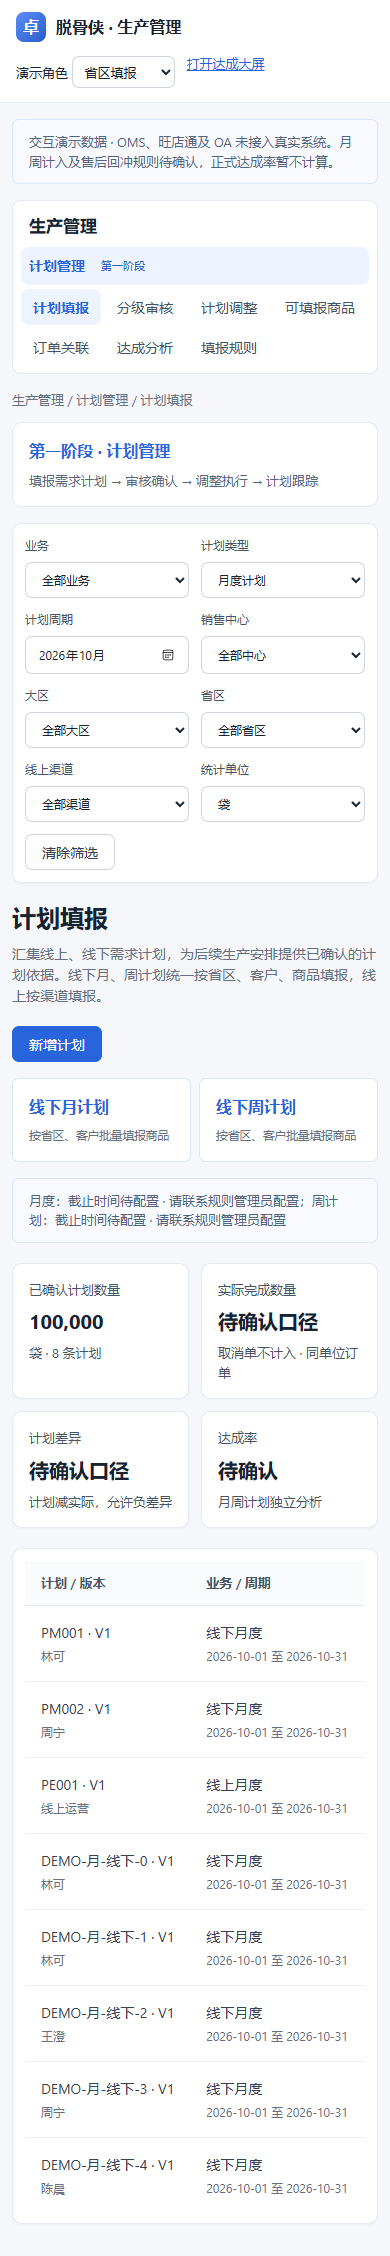
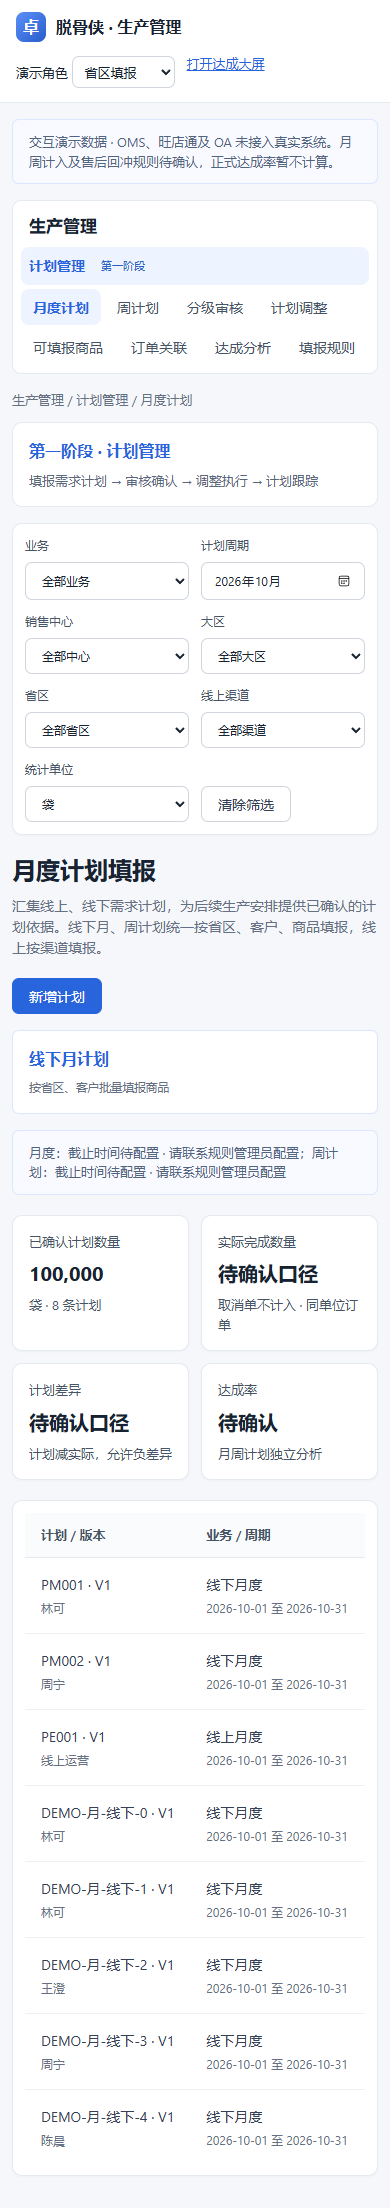
Auto sync 2026-10-12 11:15:06

diff --git a/09-设计与原型/销售计划管理/销售计划管理.js b/09-设计与原型/销售计划管理/销售计划管理.js
@@ -11,21 +11,22 @@
   function persist(){try{M.save(d);return true;}catch(e){message('保存失败：浏览器存储不可用，请检查权限；请保留当前页面。');return false;}}
   function message(s){const el=document.getElementById('message');el.textContent=s;el.style.display='block';setTimeout(()=>el.style.display='none',7000);}
   function log(p,action,extra={}){p.history.push({at:new Date().toISOString(),by:role,action,...extra});}
-  const uxApi={data:()=>d,role:()=>role,view:()=>view,rows,render,persist,message,modal,log,planTable,drill:(list)=>{modal('计划与订单明细',planTable(list));}};
+  const uxApi={data:()=>d,role:()=>role,view:()=>view,kind:()=>filters.kind,rows,render,persist,message,modal,log,planTable,drill:(list)=>{modal('计划与订单明细',planTable(list));}};
   try{const saved=JSON.parse(localStorage.getItem('tgx_plan_filters'));if(saved)filters={...filters,...saved};}catch{}
   function render(){
-    document.getElementById('root').innerHTML=`<header><div><strong>脱骨侠 · ${screen?'生产管理 · 计划达成分析':'生产管理'}</strong><div class="muted">第一阶段 · 计划管理 · 需求计划填报</div></div><div class="row">${!screen?`<label>演示角色 <select id="role">${options(['省区填报','线上运营','大区审核','中心审核','严总','丹总','商品管理员','规则管理员'],role)}</select></label>`:''}<a href="${screen?'14-销售仓库协同数字驾驶舱.html':'15-销售仓库协同可视化大屏.html'}">${screen?'返回计划管理':'打开达成大屏'}</a></div></header><main><div class="notice">交互演示数据 · OMS、旺店通及 OA 未接入真实系统。${d.rules.overlap==='pending'||d.rules.returns==='pending'?'月周计入及售后回冲规则待确认，正式达成率暂不计算。':''}</div>${!screen?`<nav aria-label="生产管理导航"><div class="module-parent">生产管理</div><div class="module-current">计划管理 <span class="tag">第一阶段</span></div><div class="module-group">计划业务</div>${[['plans','计划填报'],['review','分级审核'],['adjustments','计划调整'],['products','可填报商品'],['orders','订单关联'],['analysis','达成分析'],['rules','填报规则']].map(([k,t])=>`${k==='products'?'<div class="module-group">计划支撑</div>':''}<button data-view="${k}" aria-current="${view===k}">${t}</button>`).join('')}</nav>`:''}<div class="breadcrumb" aria-label="当前位置">生产管理 / 计划管理 / ${({plans:'计划填报',review:'分级审核',adjustments:'计划调整',products:'可填报商品',orders:'订单关联',analysis:'达成分析',rules:'填报规则'})[view]}</div><div class="phase-banner"><strong>第一阶段 · 计划管理</strong><span>填报需求计划 → 审核确认 → 调整执行 → 计划跟踪</span></div><div id="content">${['plans','review','analysis'].includes(view)?filterBar():''}${content()}</div></main><dialog id="dialog" aria-labelledby="dialogTitle"></dialog><div id="message" role="status" aria-live="polite"></div>`;
+    document.getElementById('root').innerHTML=`<header><div><strong>脱骨侠 · ${screen?'生产管理 · 计划达成分析':'生产管理'}</strong><div class="muted">第一阶段 · 计划管理 · 需求计划填报</div></div><div class="row">${!screen?`<label>演示角色 <select id="role">${options(['省区填报','线上运营','大区审核','中心审核','严总','丹总','商品管理员','规则管理员'],role)}</select></label>`:''}<a href="${screen?'14-销售仓库协同数字驾驶舱.html':'15-销售仓库协同可视化大屏.html'}">${screen?'返回计划管理':'打开达成大屏'}</a></div></header><main><div class="notice">交互演示数据 · OMS、旺店通及 OA 未接入真实系统。${d.rules.overlap==='pending'||d.rules.returns==='pending'?'月周计入及售后回冲规则待确认，正式达成率暂不计算。':''}</div>${!screen?`<nav aria-label="生产管理导航"><div class="module-parent">生产管理</div><div class="module-current">计划管理 <span class="tag">第一阶段</span></div><div class="module-group">计划业务</div><button data-plan-kind="month" aria-current="${view==='plans'&&filters.kind==='month'}">月度计划</button><button data-plan-kind="week" aria-current="${view==='plans'&&filters.kind==='week'}">周计划</button>${[['review','分级审核'],['adjustments','计划调整'],['products','可填报商品'],['orders','订单关联'],['analysis','达成分析'],['rules','填报规则']].map(([k,t])=>`${k==='products'?'<div class="module-group">计划支撑</div>':''}<button data-view="${k}" aria-current="${view===k}">${t}</button>`).join('')}</nav>`:''}<div class="breadcrumb" aria-label="当前位置">生产管理 / 计划管理 / ${({plans:filters.kind==='month'?'月度计划':'周计划',review:'分级审核',adjustments:'计划调整',products:'可填报商品',orders:'订单关联',analysis:'达成分析',rules:'填报规则'})[view]}</div><div class="phase-banner"><strong>第一阶段 · 计划管理</strong><span>填报需求计划 → 审核确认 → 调整执行 → 计划跟踪</span></div><div id="content">${['plans','review','analysis'].includes(view)?filterBar():''}${content()}</div></main><dialog id="dialog" aria-labelledby="dialogTitle"></dialog><div id="message" role="status" aria-live="polite"></div>`;
+    document.querySelectorAll('[data-plan-kind]').forEach(b=>b.onclick=()=>{const kind=b.dataset.planKind;try{localStorage.setItem('tgx_plan_filters_'+filters.kind,JSON.stringify(filters));const saved=JSON.parse(localStorage.getItem('tgx_plan_filters_'+kind));filters=saved||{business:'all',kind,center:'all',area:'all',province:'all',channel:'all',unit:'袋',cycle:kind==='month'?'2026-10':'2026-10-12'};filters.kind=kind;localStorage.setItem('tgx_plan_filters',JSON.stringify(filters));}catch{filters.kind=kind;filters.cycle=kind==='month'?'2026-10':'2026-10-12';}view='plans';render();});
     document.querySelectorAll('[data-view]').forEach(b=>b.onclick=()=>{view=b.dataset.view;render();});
     document.getElementById('role')?.addEventListener('change',e=>{role=e.target.value;render();});
     document.querySelectorAll('[data-filter]').forEach(el=>el.onchange=()=>{filters[el.dataset.filter]=el.value;if(el.dataset.filter==='business'){filters.center='all';filters.area='all';filters.province='all';filters.channel='all';}if(el.dataset.filter==='kind')filters.cycle=el.value==='month'?'2026-10':'2026-10-12';if(el.dataset.filter==='center'){filters.area='all';filters.province='all';}if(el.dataset.filter==='area')filters.province='all';try{localStorage.setItem('tgx_plan_filters',JSON.stringify(filters));}catch{}render();});
     document.querySelectorAll('[data-action]').forEach(b=>b.onclick=()=>action(b.dataset.action,b.dataset.id));
     SalesUX.decorate(uxApi);PlanChange.decorate(uxApi);if(view==='review'&&['大区审核','中心审核','严总'].includes(role))PlanHierarchy.render(uxApi);
   }
-  function filterBar(){const areaList=Object.keys(M.areas), provinces=filters.area==='all'?Object.values(M.areas).flat():M.areas[filters.area];return `<div class="card row filters"><label>业务 <select data-filter="business">${options(['offline','online'],filters.business,'全部业务').replace('>offline<','>线下<').replace('>online<','>线上<')}</select></label><label>计划类型 <select data-filter="kind">${options(['month','week'],filters.kind).replace('>month<','>月度计划<').replace('>week<','>周计划<')}</select></label><label>计划周期 <input data-filter="cycle" aria-label="计划周期" type="${filters.kind==='month'?'month':'date'}" value="${esc(filters.cycle)}"></label><label>销售中心 <select data-filter="center">${options(M.centers,filters.center,'全部中心')}</select></label><label>大区 <select data-filter="area">${options(areaList,filters.area,'全部大区')}</select></label><label>省区 <select data-filter="province">${options(provinces,filters.province,'全部省区')}</select></label><label>线上渠道 <select data-filter="channel">${options(M.channels,filters.channel,'全部渠道')}</select></label><label>统计单位 <select data-filter="unit">${options(['箱','包','袋','盒','罐','支'],filters.unit)}</select></label><button data-action="clear">清除筛选</button></div>`;}
+  function filterBar(){const areaList=Object.keys(M.areas), provinces=filters.area==='all'?Object.values(M.areas).flat():M.areas[filters.area];return `<div class="card row filters"><label>业务 <select data-filter="business">${options(['offline','online'],filters.business,'全部业务').replace('>offline<','>线下<').replace('>online<','>线上<')}</select></label>${view==='plans'?'':`<label>计划类型 <select data-filter="kind">${options(['month','week'],filters.kind).replace('>month<','>月度计划<').replace('>week<','>周计划<')}</select></label>`}<label>计划周期 <input data-filter="cycle" aria-label="计划周期" type="${filters.kind==='month'?'month':'date'}" value="${esc(filters.cycle)}"></label><label>销售中心 <select data-filter="center">${options(M.centers,filters.center,'全部中心')}</select></label><label>大区 <select data-filter="area">${options(areaList,filters.area,'全部大区')}</select></label><label>省区 <select data-filter="province">${options(provinces,filters.province,'全部省区')}</select></label><label>线上渠道 <select data-filter="channel">${options(M.channels,filters.channel,'全部渠道')}</select></label><label>统计单位 <select data-filter="unit">${options(['箱','包','袋','盒','罐','支'],filters.unit)}</select></label><button data-action="clear">清除筛选</button></div>`;}
   function metrics(list){const approved=list.filter(p=>p.stage>=M.chain(p).length&&!p.rejected), total=approved.reduce((s,p)=>s+p.qty,0), actual=approved.some(p=>M.actual(d,p)===null)?null:approved.reduce((s,p)=>s+M.actual(d,p),0);return `<div class="metrics"><div class="metric">已确认计划数量<strong>${fmt(total)}</strong>${esc(filters.unit)} · ${approved.length} 条计划</div><div class="metric">实际完成数量<strong>${fmt(actual)}</strong>取消单不计入 · 同单位订单</div><div class="metric">计划差异<strong>${fmt(actual===null?null:total-actual)}</strong>计划减实际，允许负差异</div><div class="metric">达成率<strong>${actual===null?'待确认':total?Math.round(actual/total*100)+'%':'—'}</strong>月周计划独立分析</div></div>`;}
   function planTable(list,review=false){return list.length?`<div class="table-wrap"><table><thead><tr><th>计划 / 版本</th><th>业务 / 周期</th><th>填报维度</th><th>商品</th><th>计划数量</th><th>实际完成</th><th>状态</th><th>操作</th></tr></thead><tbody>${list.map(p=>`<tr><td>${esc(p.id)} · V${p.version}<small>${esc(p.owner)}</small></td><td>${p.business==='online'?'线上':'线下'}${p.kind==='month'?'月度':'周'}<small>${p.start} 至 ${p.end}</small></td><td>${esc(subject(p))}<small>${esc(p.center)} ${esc(p.area)}</small></td><td>${esc(product(p.product))}</td><td>${fmt(p.qty)} ${esc(p.unit)}</td><td>${fmt(M.actual(d,p))}</td><td>${tag(M.status(d,p))}</td><td><button data-action="detail" data-id="${p.id}">详情 / 订单</button> ${p.stage<0||p.rejected?`<button data-action="submit" data-id="${p.id}">提交</button>`:''}${review&&M.chain(p)[p.stage]===role?` <button data-action="review" data-id="${p.id}">审核</button>`:''}${!screen&&p.stage>=M.chain(p).length&&!p.archived?` <button data-action="adjust" data-id="${p.id}">加急调整</button> <button data-action="archive" data-id="${p.id}">归档</button>`:''}</td></tr>`).join('')}</tbody></table></div>`:'<div class="empty">暂无符合条件的计划。请清除筛选或新增计划。</div>';}
   function content(){
-    if(view==='plans'||view==='review')return `<div class="row space"><div><h1>${view==='review'?'分级审核':'计划填报'}</h1><p class="muted">汇集线上、线下需求计划，为后续生产安排提供已确认的计划依据。线下月、周计划统一按省区、客户、商品填报，线上按渠道填报。</p></div>${view==='plans'?'<button class="primary" data-action="new">新增计划</button>':''}</div><div class="notice">月度窗口：${M.windowState(d,'month')} · 周计划窗口：${M.windowState(d,'week')}。月度20日填报、周五前完成，精确时点在填报规则中配置。</div>${metrics(rows())}${view==='review'?reviewSummary(rows()):''}<section class="card">${planTable(rows(),view==='review')}</section>`;
+    if(view==='plans'||view==='review')return `<div class="row space"><div><h1>${view==='review'?'分级审核':filters.kind==='month'?'月度计划填报':'周计划填报'}</h1><p class="muted">汇集线上、线下需求计划，为后续生产安排提供已确认的计划依据。线下月、周计划统一按省区、客户、商品填报，线上按渠道填报。</p></div>${view==='plans'?'<button class="primary" data-action="new">新增计划</button>':''}</div><div class="notice">月度窗口：${M.windowState(d,'month')} · 周计划窗口：${M.windowState(d,'week')}。月度20日填报、周五前完成，精确时点在填报规则中配置。</div>${metrics(rows())}${view==='review'?reviewSummary(rows()):''}<section class="card">${planTable(rows(),view==='review')}</section>`;
     if(view==='analysis')return analysis();
     if(view==='products')return `<section class="card"><div class="row space"><h1>可填报商品维护</h1><button data-action="product-new" ${role!=='商品管理员'?'disabled':''}>新增商品</button></div><p>商品管理员维护启用状态、适用业务、生效与失效日期。停用不影响历史计划。</p><div class="table-wrap"><table><thead><tr><th>商品编码 / 名称</th><th>适用业务</th><th>有效期</th><th>状态</th><th>操作</th></tr></thead><tbody>${d.products.map(p=>`<tr><td>${esc(p.id)}<small>${esc(p.name)}</small></td><td>${esc(p.scope)}</td><td>${p.from} 至 ${p.to||'长期'}</td><td>${p.enabled?'已启用':'已停用'}</td><td><button data-action="product-edit" data-id="${p.id}" ${role!=='商品管理员'?'disabled':''}>编辑</button></td></tr>`).join('')}</tbody></table></div><h3>商品变更记录</h3>${d.productHistory.map(h=>`<p>${esc(h.at)} · ${esc(h.id)} · ${esc(h.action)}</p>`).join('')||'<p class="muted">暂无变更记录</p>'}</section>`;
     if(view==='adjustments')return `<section class="card"><h1>计划调整与审批</h1><p>开始前可调整月、周计划内容并重新审批；执行后的数量变化走加急审批。审批通过生成新版本，驳回保留原计划。</p>${d.adjustments.length?`<div class="table-wrap"><table><thead><tr><th>计划</th><th>调整前 / 后</th><th>原因 / 附件</th><th>审批人</th><th>状态 / 进度</th><th>操作</th></tr></thead><tbody>${d.adjustments.map(a=>`<tr><td>${a.plan} · V${a.base}<small>${a.type==='before-start'?'开始前内容调整':'加急数量调整'}</small></td><td>${a.type==='before-start'?`<details><summary>内容变更对比</summary><table><thead><tr><th>字段</th><th>原计划</th><th>申请调整</th></tr></thead><tbody>${PlanChange.diff(a,d)}</tbody></table></details>`:''}${fmt(a.before)} → ${fmt(a.after)}<small>差异 ${fmt(a.after-a.before)}</small></td><td>${esc(a.reason)}<small>${esc(a.attachment||'无附件')}</small></td><td>${esc(a.approver)}</td><td>${tag(a.status)}<small>发起：${esc(a.at)}</small><small>${a.reviewAt?'审批：'+esc(a.reviewAt):'等待 '+esc(a.approver)+' 确认'}</small><small>${esc(a.opinion||'')}</small></td><td>${a.status==='待OA审批'&&role===a.approver?`<button data-action="adjust-review" data-id="${a.id}">演示审批</button>`:''}</td></tr>`).join('')}</tbody></table></div>`:'<div class="empty">暂无加急调整。请从已确认计划发起。</div>'}</section>`;
@@ -45,7 +46,7 @@
   function productForm(p){if(role!=='商品管理员')return;modal(p?'编辑可填报商品':'新增可填报商品',`<form id="productForm"><div class="grid">${field('商品编码','id',`<input name="id" value="${esc(p?.id||'')}" ${p?'readonly':''} required>`)}${field('商品名称','name',`<input name="name" value="${esc(p?.name||'')}" required>`)}${field('适用业务','scope',`<select name="scope">${options(['全部','线上','线下'],p?.scope)}</select>`)}${field('启用状态','enabled',`<select name="enabled">${options(['已启用','已停用'],p?.enabled===false?'已停用':'已启用')}</select>`)}${field('生效日期','from',`<input name="from" type="date" required value="${p?.from||''}">`)}${field('失效日期','to',`<input name="to" type="date" value="${p?.to||''}">`)}</div><div class="error" id="productError"></div><div class="actions"><button class="primary">保存商品</button></div></form>`);document.getElementById('productForm').onsubmit=e=>{e.preventDefault();const x=Object.fromEntries(new FormData(e.target));if((x.to&&x.to<x.from)||(!p&&d.products.some(v=>v.id===x.id))){document.getElementById('productError').textContent='商品编码重复或有效期错误，请修正。';return;}const before=p?structuredClone(p):null,after={...x,enabled:x.enabled==='已启用'};if(p)Object.assign(p,after);else d.products.push(after);d.productHistory.push({at:new Date().toISOString(),id:x.id,action:before?'商品更新':'新增商品',before,after:structuredClone(after),by:role});if(persist()){document.getElementById('dialog').close();render();}};}
   function rules(){return `<section class="card"><h1>填报窗口与统计规则</h1><p>业务纪要未确定精确截止时间。以下配置仅供演示，正式上线须经业务确认。</p><form id="rulesForm"><div class="grid">${['month','week'].map(k=>`${field((k==='month'?'月度':'周计划')+'开放时间',k+'Open',`<input type="datetime-local" id="${k}Open" value="${d.windows[k].open}">`)}${field((k==='month'?'月度':'周计划')+'截止时间',k+'Close',`<input type="datetime-local" id="${k}Close" value="${d.windows[k].close}">`)}`).join('')}${field('月周订单计入','overlap',`<select id="overlap">${options(['pending','independent'],d.rules.overlap).replace('>pending<','>待业务确认<').replace('>independent<','>演示：月周独立计入，不跨类型相加<')}</select>`)}${field('售后回冲','returns',`<select id="returns">${options(['pending','gross','net'],d.rules.returns).replace('>pending<','>待业务确认<').replace('>gross<','>演示：退货不回冲（取消不计入）<').replace('>net<','>演示：退货回冲（取消不计入）<')}</select>`)}</div><div class="error" id="rulesError"></div><div class="actions"><button type="button" data-action="rules-save" ${role!=='规则管理员'?'disabled':''}>保存演示规则</button></div></form></section>`;}
   function action(type,id){const p=d.plans.find(x=>x.id===id);
-    if(type==='new')return newPlan();if(type==='clear'){try{localStorage.removeItem('tgx_plan_filters');}catch{}filters={business:'all',kind:'month',center:'all',area:'all',province:'all',channel:'all',unit:'袋',cycle:'2026-10'};return render();}
+    if(type==='new')return newPlan();if(type==='clear'){const keepKind=filters.kind;try{localStorage.removeItem('tgx_plan_filters');}catch{}filters={business:'all',kind:'month',center:'all',area:'all',province:'all',channel:'all',unit:'袋',cycle:keepKind==='month'?'2026-10':'2026-10-12'};filters.kind=keepKind;return render();}
     if(type==='detail')return detail(p);if(type==='review')return review(p);if(type==='adjust'){adjustment(p);return SalesUX.adjustPreview(uxApi,p);}
     if(type==='product-new')return productForm();if(type==='product-edit')return productForm(d.products.find(x=>x.id===id));
     if(type==='submit'){if(PlanChange.pending(d,p))return message('内容调整正在审批，请先处理调整。');if(!['省区填报','线上运营'].includes(role)||(p.business==='online')!==(role==='线上运营'))return message('当前角色无权提交该业务计划。');if(!['可填报','即将截止'].includes(M.windowState(d,p.kind)))return message('当前填报窗口未开放，请通过授权窗口或调整流程处理。');const pr=d.products.find(x=>x.id===p.product);if(!pr?.enabled||pr.from>p.start||(pr.to&&pr.to<p.end)||(pr.scope!=='全部'&&pr.scope!==(p.business==='online'?'线上':'线下')))return message('商品已停用或不在计划有效范围，请联系商品管理员。');p.stage=0;p.rejected=false;log(p,'重新提交计划');if(persist())render();return;}

diff --git a/09-设计与原型/销售计划管理/销售计划体验.js b/09-设计与原型/销售计划管理/销售计划体验.js
@@ -6,7 +6,7 @@
  const read=k=>{try{return JSON.parse(localStorage.getItem(k));}catch{return null;}};
  let api;
  function closeGuard(el,dirty){const close=()=>{if(!dirty())return el.close();let guard=el.querySelector('.close-guard');if(guard)return;guard=document.createElement('div');guard.className='close-guard notice';guard.innerHTML='<strong>当前输入已自动保存在本机草稿中</strong><p>关闭后可通过“恢复未完成填报”继续。是否关闭？</p><button type="button" id="keepEditing">继续填写</button> <button type="button" id="closeDraft">关闭并保留草稿</button>';el.prepend(guard);guard.querySelector('#keepEditing').onclick=()=>guard.remove();guard.querySelector('#closeDraft').onclick=()=>el.close();};el.querySelector('#close').onclick=close;el.oncancel=e=>{if(dirty()){e.preventDefault();close();}};}
- function batch(a,entry){api=a;const d=a.data(),role=a.role(),business=role==='线上运营'?'online':'offline',key='tgx_plan_draft_'+role;
+ function batch(a,entry){api=a;const d=a.data(),role=a.role(),business=role==='线上运营'?'online':'offline',key='tgx_plan_draft_'+role+'_'+a.kind();entry=entry||a.kind();
   if(!canFill(role,business))return;
   const prior=entry==='restore'?read(key):null;
   const now=new Date(),date=new Date(now.getTime()-now.getTimezoneOffset()*60000).toISOString().slice(0,10);
@@ -25,7 +25,7 @@
   function reference(line){if(!range.from||!range.to)return null;const orders=d.orders.filter(o=>o.business===business&&o.product===line.product&&o.unit===line.unit&&o.date>=range.from&&o.date<=range.to&&(business==='online'?o.channel===x.channel:o.center===x.center&&o.area===x.area&&o.province===x.province&&(x.kind==='month'||o.customer===x.customer)));return orders.length?orders:null;}
   function drawLines(){const available=d.products.filter(effective);document.getElementById('lines').innerHTML=x.lines.map((l,i)=>{const ref=reference(l),n=ref?.reduce((s,o)=>s+(o.status==='取消'?0:o.qty),0);return `<section class="batch-line"><div class="grid"><label class="field">商品 ${i+1}<select data-line="${i}" data-key="product">${available.map(p=>`<option value="${E(p.id)}" ${p.id===l.product?'selected':''}>${E(p.name)}</option>`).join('')}</select></label><label class="field">计划数量<input data-line="${i}" data-key="qty" type="number" min="1" step="1" value="${E(l.qty)}" required></label><label class="field">单位<select data-line="${i}" data-key="unit">${option(units,l.unit)}</select></label><div><p>参考销量：<strong>${ref?n+' '+l.unit:'待同步'}</strong></p>${ref?`<button type="button" data-use="${i}">引用参考数量</button><details><summary>趋势与订单明细</summary><p>按日展示有效订单原始数量；取消单不计入，售后回冲待业务确认。</p>${ref.map(o=>`<p>${o.date} · ${E(o.id)} · ${o.status==='取消'?0:o.qty} ${o.unit} · ${E(o.status)}</p><div class="bar"><i style="width:${n?Math.min(100,o.qty/n*100):0}%"></i></div>`).join('')}</details>`:'<small>无同步记录，未将缺失视为零销量。</small>'}</div></div><button type="button" data-remove="${i}" ${x.lines.length===1?'disabled':''}>移除商品 ${i+1}</button><div class="error line-error" id="lineError${i}" role="alert"></div></section>`;}).join('');document.querySelectorAll('[data-line]').forEach(e=>{const i=Number(e.dataset.line);if(e.dataset.key==='product'&&!available.some(p=>p.id===x.lines[i].product))e.value='';e.oninput=()=>{x.lines[i][e.dataset.key]=e.value;store();};e.onchange=()=>{x.lines[i][e.dataset.key]=e.value;store();if(e.dataset.key!=='qty')drawLines();};});document.querySelectorAll('[data-remove]').forEach(b=>b.onclick=()=>{x.lines.splice(Number(b.dataset.remove),1);store();drawLines();});document.querySelectorAll('[data-use]').forEach(b=>b.onclick=()=>{const i=Number(b.dataset.use);x.lines[i].qty=reference(x.lines[i]).reduce((s,o)=>s+(o.status==='取消'?0:o.qty),0);store();drawLines();});}
   function deadline(){document.getElementById('deadline').textContent=windowText(d,x.kind)+` · 当前计划 ${x.start} 至 ${x.end}`;}
-  f.kind.value=x.kind;f.start.value=x.start;f.end.value=x.end;f.note.value=x.note;org();drawLines();deadline();
+  f.kind.innerHTML=`<option value="${x.kind}">${x.kind==='month'?'月度计划':'周计划'}</option>`;f.kind.value=x.kind;f.start.value=x.start;f.end.value=x.end;f.note.value=x.note;org();drawLines();deadline();
   f.addEventListener('input',()=>{sync();store();});f.kind.onchange=()=>{sync();setCycle();f.start.value=x.start;f.end.value=x.end;org();store();drawLines();deadline();};for(const n of ['start','end'])f[n].onchange=()=>{sync();store();drawLines();deadline();};
   document.getElementById('addLine').onclick=()=>{x.lines.push({product:d.products.find(effective)?.id||'',qty:'',unit:'袋'});store();drawLines();};
   document.getElementById('copyPrevious').onclick=()=>{sync();const candidates=d.plans.filter(p=>p.business===business&&p.kind===x.kind&&p.end<x.start&&(business==='online'?p.channel===x.channel:p.center===x.center&&p.area===x.area&&p.province===x.province&&p.customer===x.customer));const end=candidates.map(p=>p.end).sort().at(-1),list=candidates.filter(p=>p.end===end&&d.products.find(v=>v.id===p.product&&effective(v)));if(!list.length)return a.message('当前组织与周期没有可复制的上期计划。');const unique=new Map(list.map(p=>[p.product+':'+p.unit,{product:p.product,qty:p.qty,unit:p.unit}]));for(const l of unique.values()){const existing=x.lines.find(v=>v.product===l.product&&v.unit===l.unit);if(!existing)x.lines.push(l);else if(!existing.qty)existing.qty=l.qty;}store();drawLines();a.message('已追加上期有效商品与数量，请核对后提交。');};
@@ -37,7 +37,7 @@
  function decorate(a){api=a;const d=a.data(),role=a.role(),view=a.view();
   if(document.body.dataset.page!=='screen')document.querySelectorAll('[data-action]').forEach(b=>{const p=d.plans.find(x=>x.id===b.dataset.id),t=b.dataset.action;if((t==='new'&&!['省区填报','线上运营'].includes(role))||(p&&['submit','adjust'].includes(t)&&!canFill(role,p.business))||(p&&t==='archive'&&role!==(p.business==='online'?'丹总':'严总'))||(t.startsWith('link-')&&!['大区审核','中心审核','严总','丹总'].includes(role)))b.hidden=true;});else document.querySelectorAll('[data-action^="link-"]').forEach(b=>b.hidden=true);
   const business=document.querySelector('[data-filter=business]')?.value;document.querySelectorAll('[data-filter]').forEach(el=>{if(['center','area','province'].includes(el.dataset.filter))el.closest('label').hidden=business==='online';if(el.dataset.filter==='channel')el.closest('label').hidden=business==='offline';});
-  if(view==='plans'&&['省区填报','线上运营'].includes(role)){const top=document.querySelector('#content>.row.space');const entries=document.createElement('div');entries.className='entry-cards';entries.innerHTML=role==='省区填报'?'<button data-entry="month"><strong>线下月计划</strong><small>按省区、客户批量填报商品</small></button><button data-entry="week"><strong>线下周计划</strong><small>按省区、客户批量填报商品</small></button>':'<button data-entry="month"><strong>线上月计划</strong><small>按渠道批量填报商品</small></button><button data-entry="week"><strong>线上周计划</strong><small>按渠道填报每周商品</small></button>';if(read('tgx_plan_draft_'+role))entries.innerHTML+='<button data-entry="restore"><strong>恢复未完成填报</strong><small>继续本机自动保存的草稿</small></button>';top?.after(entries);entries.querySelectorAll('[data-entry]').forEach(b=>b.onclick=()=>batch(a,b.dataset.entry));}
+  if(view==='plans'&&['省区填报','线上运营'].includes(role)){const top=document.querySelector('#content>.row.space');const entries=document.createElement('div');entries.className='entry-cards';entries.innerHTML=role==='省区填报'?'<button data-entry="month"><strong>线下月计划</strong><small>按省区、客户批量填报商品</small></button><button data-entry="week"><strong>线下周计划</strong><small>按省区、客户批量填报商品</small></button>':'<button data-entry="month"><strong>线上月计划</strong><small>按渠道批量填报商品</small></button><button data-entry="week"><strong>线上周计划</strong><small>按渠道填报每周商品</small></button>';if(read('tgx_plan_draft_'+role+'_'+a.kind()))entries.innerHTML+='<button data-entry="restore"><strong>恢复未完成填报</strong><small>继续本机自动保存的草稿</small></button>';top?.after(entries);entries.querySelectorAll('[data-entry]').forEach(b=>{if(['month','week'].includes(b.dataset.entry)&&b.dataset.entry!==a.kind())b.remove();else b.onclick=()=>batch(a,b.dataset.entry);});}
   if(['plans','review'].includes(view)){const notices=document.querySelectorAll('#content>.notice');if(notices.length)notices[0].textContent='月度：'+windowText(d,'month')+'；周计划：'+windowText(d,'week');}
   if(view==='review'){const list=a.rows(),pending=p=>!PlanChange.pending(d,p)&&!p.rejected&&!p.archived&&SalesPlan.chain(p)[p.stage]===role;const toolbar=document.createElement('div');toolbar.className='card row';toolbar.innerHTML='<label class="check"><input id="onlyMine" type="checkbox" checked>只看待我审核</label><button id="batchReview">审核选中计划</button><span id="reviewCount"></span>';document.querySelector('#content>.row.space')?.after(toolbar);const tr=[...document.querySelectorAll('#content table')].filter(t=>t.querySelector('[data-action=detail]')).flatMap(t=>[...t.querySelectorAll('tbody tr')]);tr.forEach(row=>{const p=d.plans.find(p=>p.id===row.querySelector('[data-action=detail]')?.dataset.id);if(p&&pending(p)){const box=document.createElement('input');box.type='checkbox';box.className='review-check';box.dataset.id=p.id;box.setAttribute('aria-label','选择计划 '+p.id);row.firstElementChild.prepend(box);}});const apply=()=>{tr.forEach(row=>{const p=d.plans.find(p=>p.id===row.querySelector('[data-action=detail]')?.dataset.id);row.hidden=document.getElementById('onlyMine').checked&&!pending(p);});document.getElementById('reviewCount').textContent=`当前筛选下待我审核 ${list.filter(pending).length} 条`;};document.getElementById('onlyMine').onchange=apply;apply();document.getElementById('batchReview').onclick=()=>{const ids=[...document.querySelectorAll('.review-check:checked')].map(x=>x.dataset.id);if(!ids.length)return a.message('请先勾选待审核计划。');a.modal('批量审核',`<p>将审核 ${ids.length} 条计划，每条保留数量快照与审批意见。</p><label class="field">共同审核意见<textarea id="batchOpinion"></textarea></label><div class="actions"><button id="batchReject">驳回选中</button><button class="primary" id="batchApprove">通过选中</button></div>`);const finish=pass=>{const opinion=document.getElementById('batchOpinion').value.trim();if(!opinion)return a.message('请填写审核意见。');const before=structuredClone(d.plans);for(const id of ids){const p=d.plans.find(x=>x.id===id);if(!pending(p))return a.message('审批状态已变化，请刷新后重新选择。');a.log(p,pass?'批量审核通过':'批量审核驳回',{opinion,qty:p.qty});if(pass)p.stage++;else p.rejected=true;}if(!a.persist()){d.plans=before;return;}document.getElementById('dialog').close();a.render();};document.getElementById('batchApprove').onclick=()=>finish(true);document.getElementById('batchReject').onclick=()=>finish(false);};}
   if(['analysis','plans'].includes(view)){const list=a.rows().filter(p=>p.stage>=SalesPlan.chain(p).length&&!p.rejected);document.querySelectorAll('.metrics .metric').forEach((m,i)=>{m.tabIndex=0;m.setAttribute('role','button');m.setAttribute('aria-label','查看'+m.firstChild.textContent+'明细');m.onclick=()=>a.drill(list,i);m.onkeydown=e=>{if(e.key==='Enter'||e.key===' '){e.preventDefault();m.click();}};});if(view==='analysis'){const group=document.createElement('div');group.className='card row';for(const [label,fn] of [['未达成',p=>{const n=SalesPlan.actual(d,p);return n!==null&&n<p.qty;}],['超额达成',p=>{const n=SalesPlan.actual(d,p);return n!==null&&n>p.qty;}],['匹配异常',p=>SalesPlan.linked(d,p).some(o=>d.plans.filter(q=>q.kind===p.kind&&SalesPlan.linked(d,q).some(v=>v.id===o.id)).length>1)]]){const b=document.createElement('button');b.textContent=label+' '+list.filter(fn).length;b.onclick=()=>a.drill(list.filter(fn));group.append(b);}document.querySelector('.metrics')?.after(group);}}
